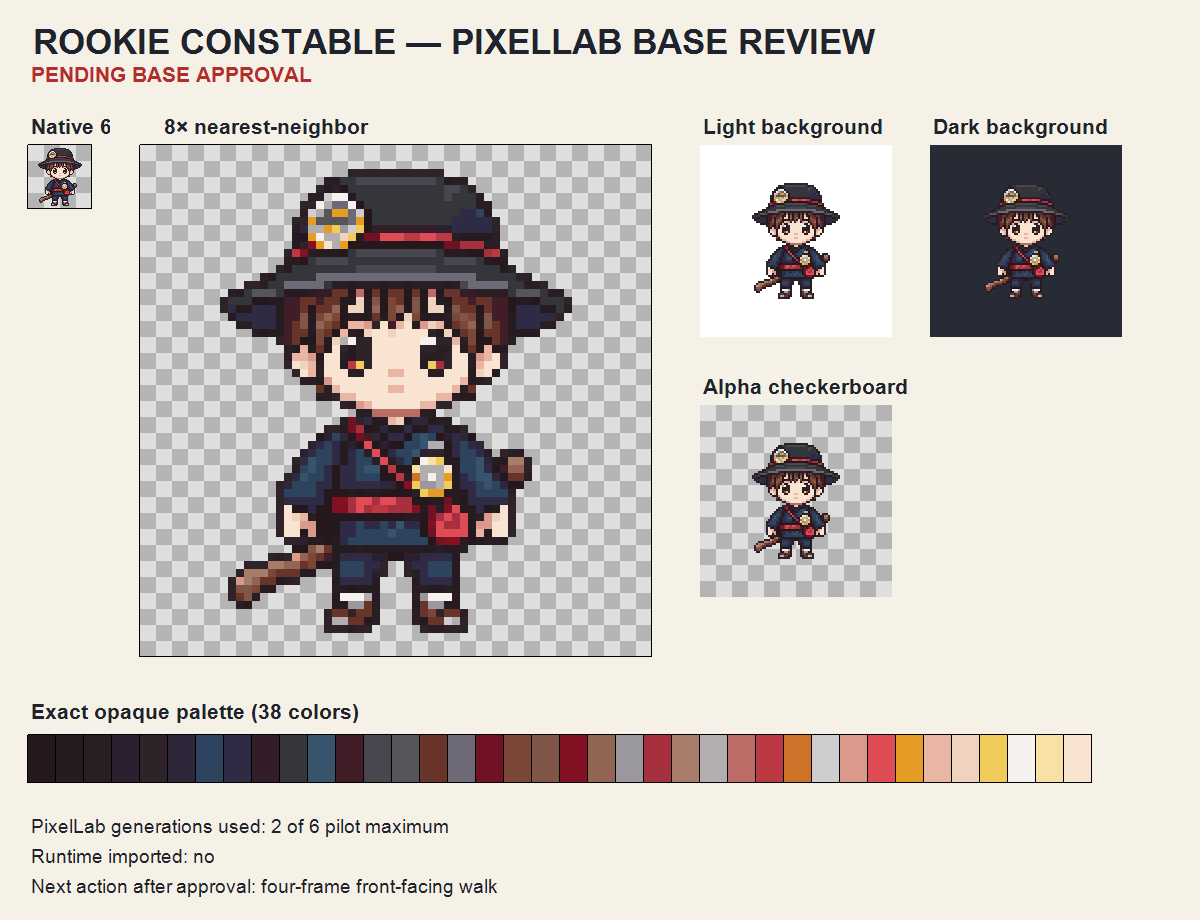
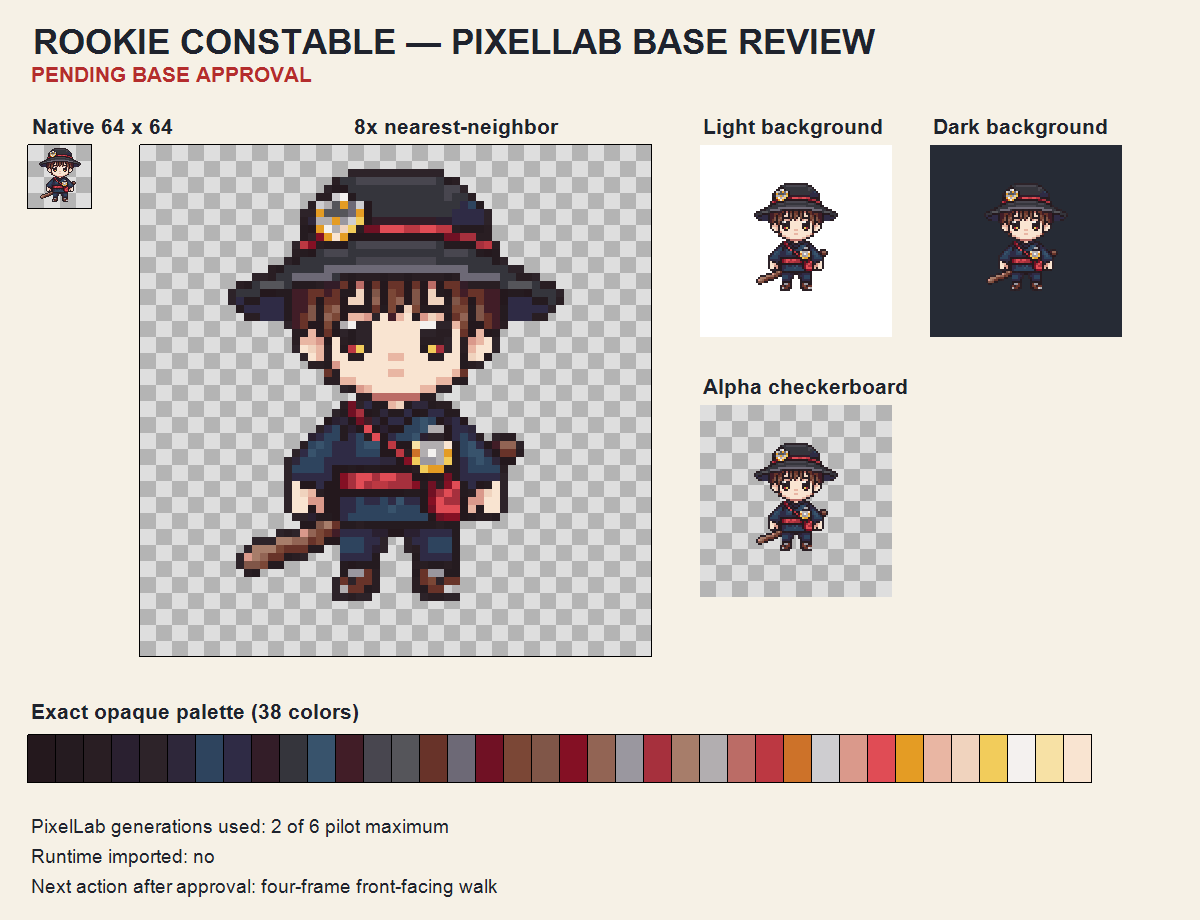
art: normalize constable base anchor

diff --git a/Docs/Assets/review/rookie-constable-pixellab.md b/Docs/Assets/review/rookie-constable-pixellab.md
@@ -4,6 +4,6 @@
 - Runtime imported: no
 - Next action after approval: four-frame front-facing walk
 
-Preflight: PASS — 64 × 64 RGBA PNG, transparent corners, hard alpha, horizontally bottom-centered opaque bounds (10,3)-(53,60), and 38 opaque colors (maximum 48).
+Preflight: PASS — normalized 64 × 64 RGBA PNG, transparent corners, hard alpha, opaque foot-contact row exactly y=56, horizontally centered opaque bounds (11,3)-(52,56), and 38 opaque colors (maximum 48). The original provider output is preserved as `base-pixellab-raw.png`; `base.png` is the deterministic nearest-neighbor normalized review candidate.
 
 The first PixelLab result was rejected because it contained two characters. The selected second result is shown in `rookie-constable-pixellab-board.png` and awaits explicit base approval.
